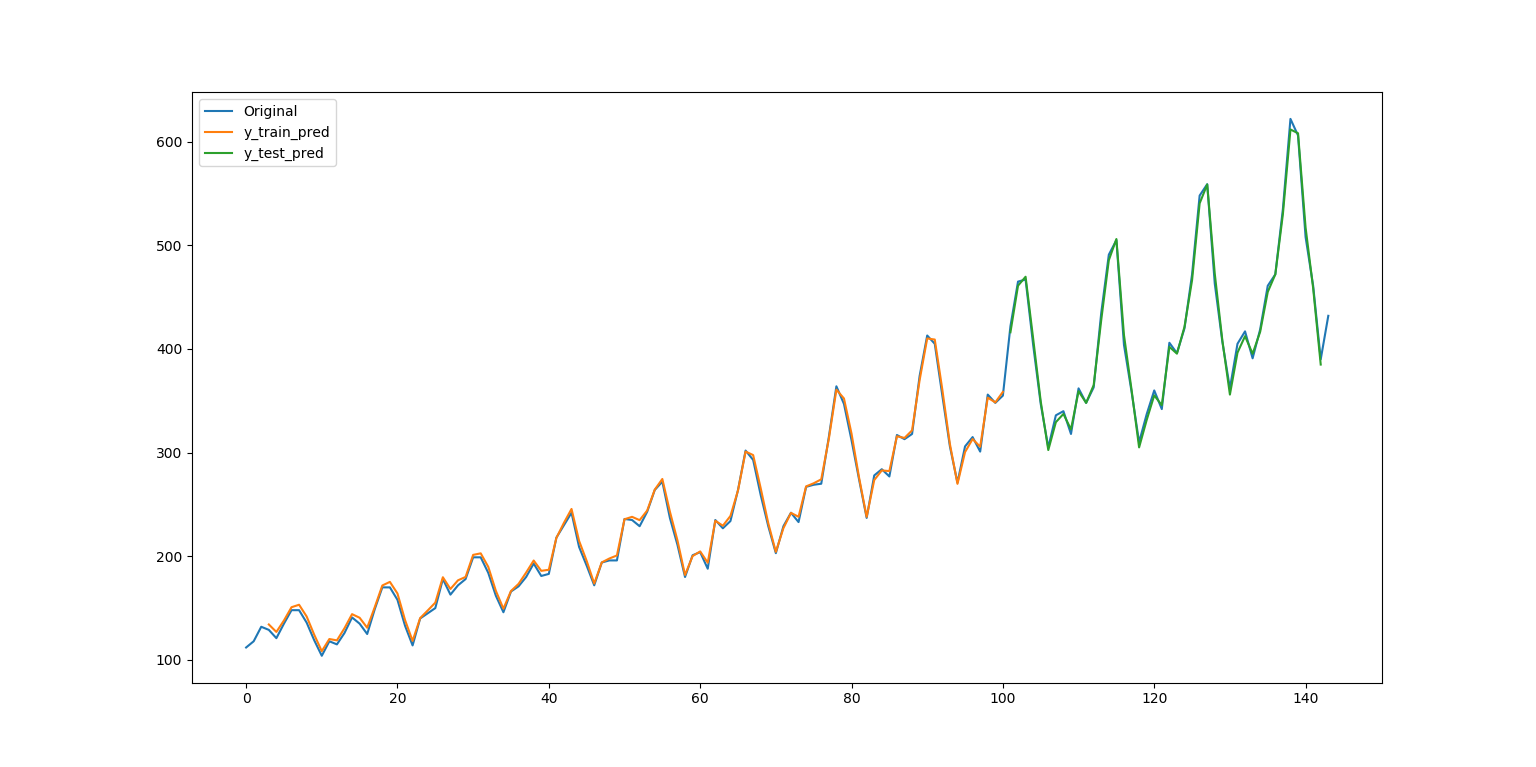
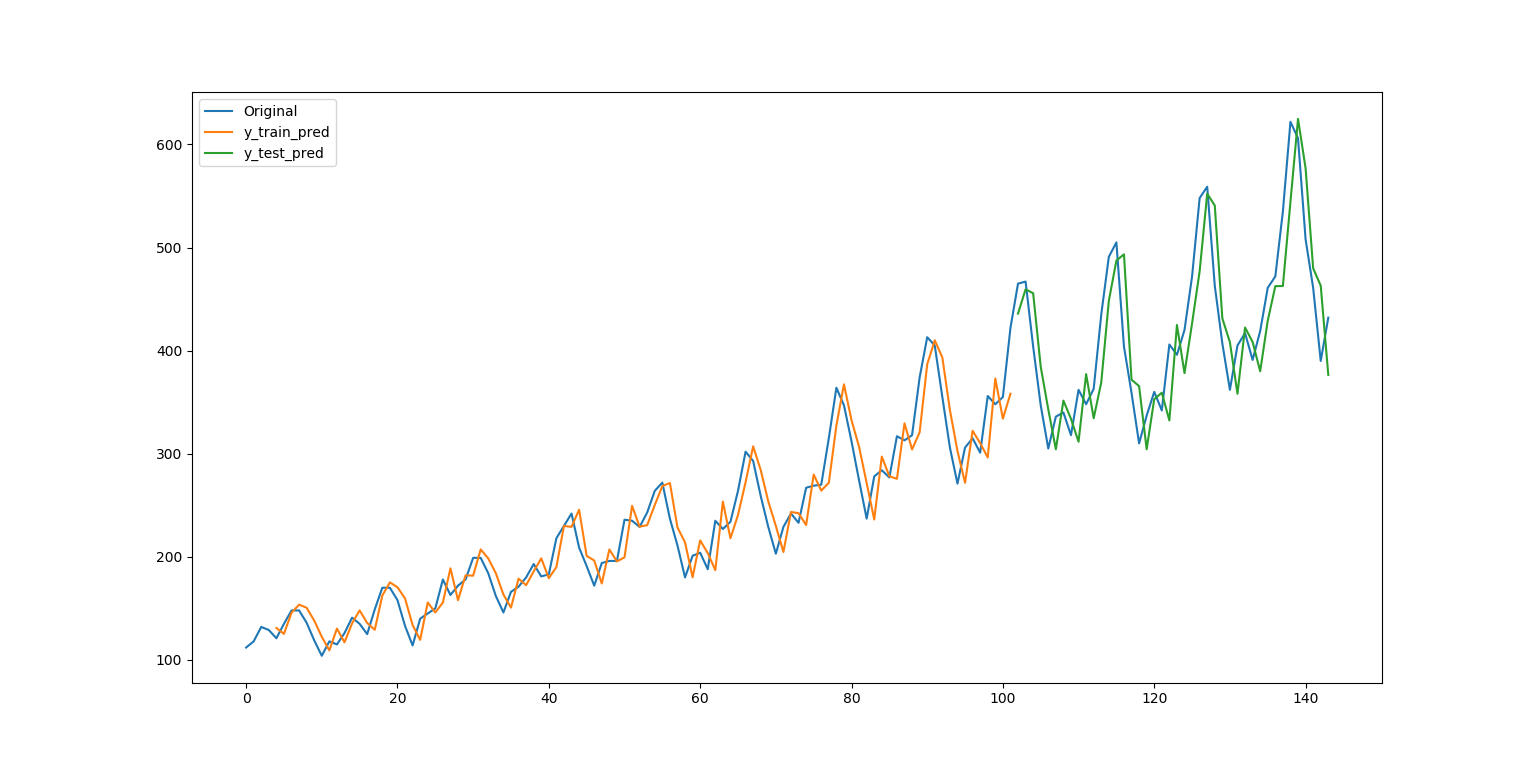
4.2 fix

diff --git a/ch4/4.2.md b/ch4/4.2.md
@@ -57,7 +57,7 @@ y_test  = y_[train_size:]
 n_input = wnd_sz - 1
 n_hidden1 = 8
 n_hidden2 = 8
-n_epoch = 5000
+n_epoch = 10000
 lr = 0.05
 ```
 
@@ -143,56 +143,106 @@ with tf.Session() as sess:
 输出：
 
 ```
-epoch: 0, loss: 77043409.15985592, r_sqr: -23521.326030692493
-epoch: 100, loss: 37897.23702800295, r_sqr: -19.354921930720298
-epoch: 200, loss: 18649.75640974346, r_sqr: -8.911116248501166
-epoch: 300, loss: 2147.5966146602123, r_sqr: -0.37853989085487894
-epoch: 400, loss: 1263.5931463538998, r_sqr: -0.07382634204138805
-epoch: 500, loss: 1253.7406046664753, r_sqr: -0.06806333648446028
-epoch: 600, loss: 1243.1634553133817, r_sqr: -0.05808352824579188
-epoch: 700, loss: 1231.6089343016802, r_sqr: -0.047192074052323285
-epoch: 800, loss: 1219.1576464110979, r_sqr: -0.03545010651331659
-epoch: 900, loss: 1205.8828393813747, r_sqr: -0.022926405676425343
-epoch: 1000, loss: 1191.8465646365878, r_sqr: -0.009677859125288402
-epoch: 1100, loss: 1177.1062418824404, r_sqr: 0.004243967776722424
-epoch: 1200, loss: 1161.7164820448843, r_sqr: 0.018790246715360892
-epoch: 1300, loss: 1145.7297771867177, r_sqr: 0.03391350235390089
-epoch: 1400, loss: 1129.1971559789824, r_sqr: 0.04956788399307355
-epoch: 1500, loss: 1112.1687995644938, r_sqr: 0.06570958355602252
-epoch: 1600, loss: 1094.694636052806, r_sqr: 0.08229545885419343
-epoch: 1700, loss: 1076.8249437552386, r_sqr: 0.09928154409095935
-epoch: 1800, loss: 1058.610974802893, r_sqr: 0.11662268793671471
-epoch: 1900, loss: 1040.105609510567, r_sqr: 0.13427233278395379
-epoch: 2000, loss: 1021.3640359106001, r_sqr: 0.1521818679367114
-epoch: 2100, loss: 1002.4444410104628, r_sqr: 0.17029996348616006
-epoch: 2200, loss: 983.4086843952391, r_sqr: 0.18857191001352747
-epoch: 2300, loss: 964.3229054480233, r_sqr: 0.2069390069486834
-epoch: 2400, loss: 945.2579949977004, r_sqr: 0.22533806131402534
-epoch: 2500, loss: 926.2898394552855, r_sqr: 0.24370108009098945
-epoch: 2600, loss: 907.4992164430009, r_sqr: 0.26195526740076414
-epoch: 2700, loss: 888.9712051573856, r_sqr: 0.280023453768229
-epoch: 2800, loss: 870.7939619278964, r_sqr: 0.2978250994434424
-epoch: 2900, loss: 853.05672620067, r_sqr: 0.3152780035841527
-epoch: 3000, loss: 835.8469673933254, r_sqr: 0.33230081404774603
-epoch: 3100, loss: 819.2466742438579, r_sqr: 0.34881635344105677
-epoch: 3200, loss: 803.3279326750028, r_sqr: 0.36475564841741825
-epoch: 3300, loss: 788.1481237249968, r_sqr: 0.38006238078008847
-epoch: 3400, loss: 773.745277047634, r_sqr: 0.39469728985699026
-epoch: 3500, loss: 760.1342789234745, r_sqr: 0.4086418985378084
-epoch: 3600, loss: 747.3046994934577, r_sqr: 0.42190086156546835
-epoch: 3700, loss: 735.2208931432085, r_sqr: 0.4345023183201536
-epoch: 3800, loss: 723.8247262865601, r_sqr: 0.44649588706494947
-epoch: 3900, loss: 713.0408217593164, r_sqr: 0.45794834867883616
-epoch: 4000, loss: 702.78369807874, r_sqr: 0.4689375321627457
-epoch: 4100, loss: 692.9657749714121, r_sqr: 0.4795453028091119
-epoch: 4200, loss: 683.5050440089381, r_sqr: 0.48985076712787634
-epoch: 4300, loss: 674.3313145689638, r_sqr: 0.49992489144728647
-epoch: 4400, loss: 665.3902370349782, r_sqr: 0.5098283426678187
-epoch: 4500, loss: 656.6442942499, r_sqr: 0.519616563102019
-epoch: 4600, loss: 648.0638010180554, r_sqr: 0.5293300601027169
-epoch: 4700, loss: 639.5055692785119, r_sqr: 0.5390077718507222
-epoch: 4800, loss: 630.981821415558, r_sqr: 0.5487029645939019
-epoch: 4900, loss: 622.2826900882102, r_sqr: 0.5586641266805659
+epoch: 0, loss: 59209399.053257026, r_sqr: -17520.903006130215
+epoch: 100, loss: 54125.98862726741, r_sqr: -28.30371839204463
+epoch: 200, loss: 48165.48221823986, r_sqr: -25.13646606476775
+epoch: 300, loss: 25826.1223418781, r_sqr: -12.89535810028511
+epoch: 400, loss: 1596.701326728818, r_sqr: -0.2350739792412242
+epoch: 500, loss: 1396.8836047513207, r_sqr: -0.19979831972491247
+epoch: 600, loss: 1386.2307618333675, r_sqr: -0.18952804825771152
+epoch: 700, loss: 1374.6194509485028, r_sqr: -0.17864308160044695
+epoch: 800, loss: 1362.1306530753875, r_sqr: -0.1669310907644168
+epoch: 900, loss: 1348.837516403113, r_sqr: -0.15445861855695942
+epoch: 1000, loss: 1334.8048545363076, r_sqr: -0.14128485137041857
+epoch: 1100, loss: 1320.0909505177317, r_sqr: -0.1274628487494167
+epoch: 1200, loss: 1304.7487050247062, r_sqr: -0.11304061847816937
+epoch: 1300, loss: 1288.8264056578596, r_sqr: -0.09806183013209635
+epoch: 1400, loss: 1272.368278888685, r_sqr: -0.08256632457099822
+epoch: 1500, loss: 1255.4149176209135, r_sqr: -0.06659050598517702
+epoch: 1600, loss: 1238.0036386736738, r_sqr: -0.05016766677562812
+epoch: 1700, loss: 1220.1688168734415, r_sqr: -0.033328289031115066
+epoch: 1800, loss: 1201.942219268364, r_sqr: -0.016100344309701198
+epoch: 1900, loss: 1183.3533635535823, r_sqr: 0.001490385551745188
+epoch: 2000, loss: 1164.4299150007857, r_sqr: 0.019419953232036713
+epoch: 2100, loss: 1145.1981380968932, r_sqr: 0.037665840800028216
+epoch: 2200, loss: 1125.683416643312, r_sqr: 0.056206491416253
+epoch: 2300, loss: 1105.9108537794123, r_sqr: 0.07502076650340628
+epoch: 2400, loss: 1085.9059630721106, r_sqr: 0.0940873169623373
+epoch: 2500, loss: 1065.6954608224203, r_sqr: 0.11338385761808756
+epoch: 2600, loss: 1045.3081603639205, r_sqr: 0.13288634237228225
+epoch: 2700, loss: 1024.7759657787278, r_sqr: 0.15256803995690105
+epoch: 2800, loss: 1004.1349451931811, r_sqr: 0.172398525823234
+epoch: 2900, loss: 983.4264457196117, r_sqr: 0.1923426217757903
+epoch: 3000, loss: 962.6981814611527, r_sqr: 0.2123593431286731
+epoch: 3100, loss: 942.0051856419402, r_sqr: 0.23240095064001043
+epoch: 3200, loss: 921.4104707924716, r_sqr: 0.25241224904623527
+epoch: 3300, loss: 900.9855546712687, r_sqr: 0.2723303372744077
+epoch: 3400, loss: 880.8157626399897, r_sqr: 0.2920819860142483
+epoch: 3500, loss: 860.9797390814788, r_sqr: 0.3115862647284954
+epoch: 3600, loss: 841.5508166258288, r_sqr: 0.3307714419429332
+epoch: 3700, loss: 822.65464452708, r_sqr: 0.34954174287751905
+epoch: 3800, loss: 804.3510636509582, r_sqr: 0.36784090179299245
+epoch: 3900, loss: 786.698489755282, r_sqr: 0.385608999078319
+epoch: 4000, loss: 769.742814493071, r_sqr: 0.4028012203684326
+epoch: 4100, loss: 753.5066274222577, r_sqr: 0.41939554512386545
+epoch: 4200, loss: 737.987317032155, r_sqr: 0.435393667355777
+epoch: 4300, loss: 723.1589061501688, r_sqr: 0.450820383097843
+epoch: 4400, loss: 708.9775872199175, r_sqr: 0.4657183502307326
+epoch: 4500, loss: 695.3902622132391, r_sqr: 0.48014080374835966
+epoch: 4600, loss: 682.3445164530003, r_sqr: 0.49414259666687754
+epoch: 4700, loss: 669.7979767738486, r_sqr: 0.5077712354635172
+epoch: 4800, loss: 657.7254031658086, r_sqr: 0.5210596011864659
+epoch: 4900, loss: 646.1225385082785, r_sqr: 0.5340213253103482
+epoch: 5000, loss: 635.0063312881094, r_sqr: 0.5466495174400207
+epoch: 5100, loss: 624.413372450103, r_sqr: 0.5589148722286865
+epoch: 5200, loss: 614.3949181844811, r_sqr: 0.5707707632698614
+epoch: 5300, loss: 605.0111648523978, r_sqr: 0.5821553829261457
+epoch: 5400, loss: 596.3251407668536, r_sqr: 0.5929950345771348
+epoch: 5500, loss: 588.394934666788, r_sqr: 0.6032110372771016
+epoch: 5600, loss: 581.2665165995329, r_sqr: 0.6127246745768582
+epoch: 5700, loss: 574.966974465473, r_sqr: 0.6214638760543536
+epoch: 5800, loss: 569.4991301790525, r_sqr: 0.6293697644027529
+epoch: 5900, loss: 564.8386101443393, r_sqr: 0.6364025085215417
+epoch: 6000, loss: 560.9342529396988, r_sqr: 0.6425455981413335
+epoch: 6100, loss: 557.7121333454768, r_sqr: 0.6478080528894717
+epoch: 6200, loss: 555.082871816442, r_sqr: 0.6522228049088226
+epoch: 6300, loss: 552.9504878905169, r_sqr: 0.655844018250897
+epoch: 6400, loss: 551.2218559344465, r_sqr: 0.6587415604098865
+epoch: 6500, loss: 549.8130443197065, r_sqr: 0.6609962191562182
+epoch: 6600, loss: 548.6541928338876, r_sqr: 0.6626926870925417
+epoch: 6700, loss: 547.6907665851817, r_sqr: 0.6639154520465458
+epoch: 6800, loss: 546.8824436922644, r_sqr: 0.6647451519232287
+epoch: 6900, loss: 546.2005216521292, r_sqr: 0.6652561458635722
+epoch: 7000, loss: 545.624816174369, r_sqr: 0.6655151008532998
+epoch: 7100, loss: 545.1407754175443, r_sqr: 0.6655803536739032
+epoch: 7200, loss: 544.737161207175, r_sqr: 0.6655015768007708
+epoch: 7300, loss: 544.4043734455902, r_sqr: 0.6653207475362519
+epoch: 7400, loss: 544.1341742901118, r_sqr: 0.6650726389557293
+epoch: 7500, loss: 543.9183617756419, r_sqr: 0.6647841774748728
+epoch: 7600, loss: 543.7491045438804, r_sqr: 0.6644772215677328
+epoch: 7700, loss: 543.6189281327097, r_sqr: 0.664168178900878
+epoch: 7800, loss: 543.5208538865398, r_sqr: 0.6638692273468367
+epoch: 7900, loss: 543.448546441615, r_sqr: 0.6635888904468247
+epoch: 8000, loss: 543.3964235871173, r_sqr: 0.6633326568412115
+epoch: 8100, loss: 543.3597144375057, r_sqr: 0.6631036869053042
+epoch: 8200, loss: 543.334470694699, r_sqr: 0.6629032437625964
+epoch: 8300, loss: 543.3175272915516, r_sqr: 0.6627311295544881
+epoch: 8400, loss: 543.3064268470205, r_sqr: 0.6625860646477272
+epoch: 8500, loss: 543.2993218444616, r_sqr: 0.6624660124009056
+epoch: 8600, loss: 543.2948676666707, r_sqr: 0.6623684566822827
+epoch: 8700, loss: 543.2921173712779, r_sqr: 0.66229063392118
+epoch: 8800, loss: 543.2904259948474, r_sqr: 0.6622297208034926
+epoch: 8900, loss: 543.2893689519885, r_sqr: 0.6621829791500562
+epoch: 9000, loss: 543.2886762658412, r_sqr: 0.6621478605931548
+epoch: 9100, loss: 543.2881822202421, r_sqr: 0.6621220749401975
+epoch: 9200, loss: 543.2877886467712, r_sqr: 0.6621036272136598
+epoch: 9300, loss: 543.2874393833906, r_sqr: 0.6620908290593257
+epoch: 9400, loss: 543.2871033165793, r_sqr: 0.662082291939509
+epoch: 9500, loss: 543.2867636136157, r_sqr: 0.6620769002407012
+epoch: 9600, loss: 543.2864111990842, r_sqr: 0.6620737858271186
+epoch: 9700, loss: 543.2860410035256, r_sqr: 0.6620722889010859
+epoch: 9800, loss: 543.285649892272, r_sqr: 0.6620719225552976
+epoch: 9900, loss: 543.2852355789513, r_sqr: 0.662072338159642
 ```
 
 绘制时间序列及其预测值。
@@ -201,11 +251,11 @@ epoch: 4900, loss: 622.2826900882102, r_sqr: 0.5586641266805659
 plt.figure()
 plt.plot(ts, label='Original')
 y_train_pred = np.concatenate([
-    [np.nan] * (n_input - 1), 
+    [np.nan] * n_input, 
     y_train_pred.ravel()
 ])
 y_test_pred = np.concatenate([
-    [np.nan] * (n_input - 1 + train_size),
+    [np.nan] * (n_input + train_size),
     y_test_pred.ravel()
 ])
 plt.plot(y_train_pred, label='y_train_pred')
